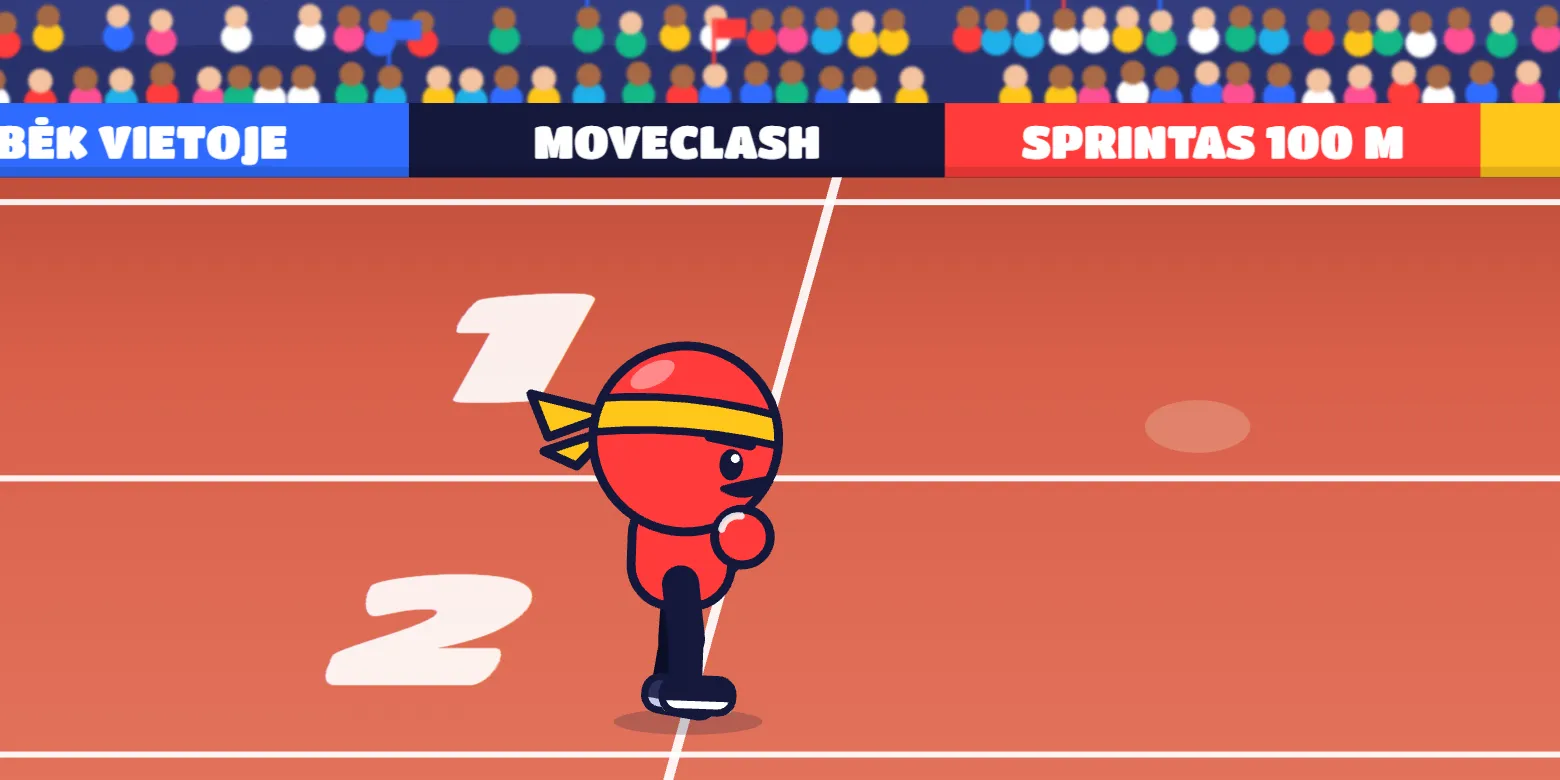
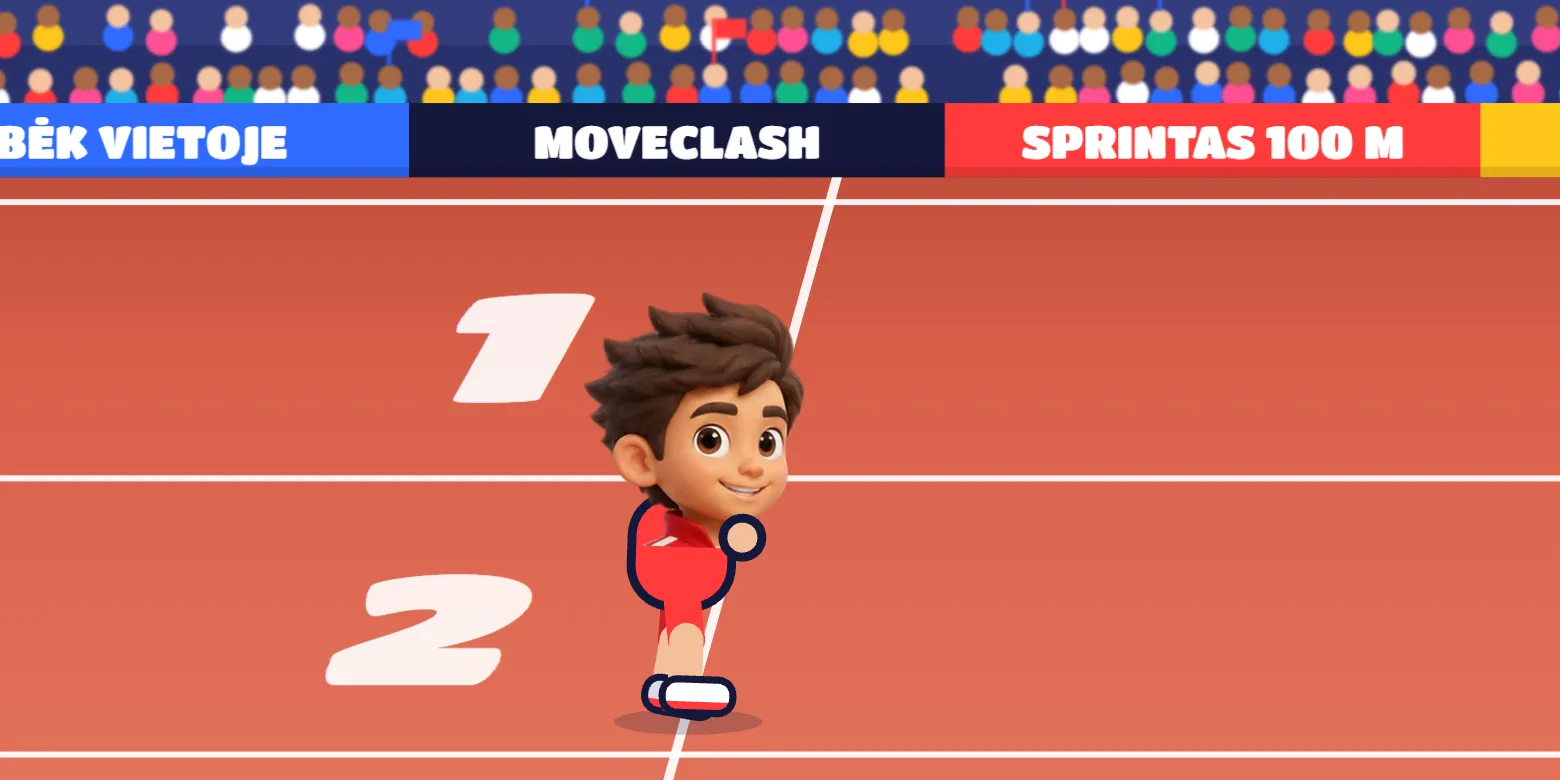
Bėgikai žaidimuose: naujų veikėjų galvos ir apranga (#56)

Changed region(s): [[0.3385, 0.3692, 0.5231, 0.9231], [0.7385, 0.4923, 0.8, 0.5846]]

diff --git a/src/sprint/runner.ts b/src/sprint/runner.ts
@@ -93,17 +93,24 @@ function footDrop(th:number,kn:number,ft:number){
 function capsule(ctx:CanvasRenderingContext2D,len:number,w:number){
   const r=w/2;ctx.beginPath();ctx.moveTo(-r,0);ctx.lineTo(-r,len);ctx.arc(0,len,r,Math.PI,0,true);ctx.lineTo(r,0);ctx.arc(0,0,r,0,Math.PI,true);ctx.closePath();
 }
-function leg(ctx:CanvasRenderingContext2D,j:number,o:Pose,far:boolean){
+// #55: the Claude Design v2 character's 3/4 head (public/chars/head-*.webp, looks +x like the runner) replaces the
+// drawn mascot head once it has loaded; until then (or offline without the asset) the old head is drawn.
+const HEADS:Record<string,HTMLImageElement>={};
+if(typeof Image!=="undefined")for(const [n,k] of [["raudonas","r"],["melynas","b"],["geltonas","y"],["zalias","g"]]){const i=new Image();i.src=`/chars/head-${k}.webp`;HEADS[n]=i}
+const SKIN:Record<string,string>={raudonas:"#F2BF9A",melynas:"#7A4A2E",geltonas:"#F4CBA8",zalias:"#F6C7A2"};
+function leg(ctx:CanvasRenderingContext2D,j:number,o:Pose,far:boolean,L?:Look){
+  const kit=L&&HEADS[L.name]?.naturalWidth?L:null; // #55: kit colour thigh (shorts) + skin shin, white sneaker
   ctx.save();
   ctx.rotate(-o.th[j]*D);
-  ctx.fillStyle=far?"#0B0E26":INK;
+  ctx.fillStyle=kit?(far?kit.dark:kit.body):(far?"#0B0E26":INK);
   capsule(ctx,THIGH,LW);ctx.fill();
   ctx.translate(0,THIGH);ctx.rotate(o.kn[j]*D);
+  ctx.fillStyle=kit?SKIN[kit.name]:ctx.fillStyle;
   capsule(ctx,SHIN,LW*.92);ctx.fill();
   // chunky sneaker, toe forward (+x): white sole + coloured upper
   ctx.translate(0,SHIN);ctx.rotate(-o.ft[j]*D);
-  ctx.beginPath();ctx.roundRect(-.06,-.035,.19,.085,.04);ctx.fillStyle=far?"#2A2F5A":INK;ctx.fill();
-  ctx.beginPath();ctx.roundRect(-.06,.025,.19,.03,.015);ctx.fillStyle=far?"#C9CCE3":"#fff";ctx.fill();
+  ctx.beginPath();ctx.roundRect(-.06,-.035,.19,.085,.04);ctx.fillStyle=kit?(far?"#D9DCE6":"#fff"):(far?"#2A2F5A":INK);ctx.fill();
+  ctx.beginPath();ctx.roundRect(-.06,.025,.19,.03,.015);ctx.fillStyle=kit?kit.body:(far?"#C9CCE3":"#fff");ctx.fill();
   ctx.lineWidth=OL*.8;ctx.strokeStyle=INK;ctx.beginPath();ctx.roundRect(-.06,-.035,.19,.09,.04);ctx.stroke();
   ctx.restore();
 }
@@ -111,12 +118,14 @@ function leg(ctx:CanvasRenderingContext2D,j:number,o:Pose,far:boolean){
 function glove(ctx:CanvasRenderingContext2D,L:Look,j:number,o:Pose,far:boolean){
   const a1=-o.sh[j]*D, a2=a1-o.el[j]*D;
   const x=Math.sin(-a1)*UARM+Math.sin(-a2)*FARM, y=Math.cos(a1)*UARM+Math.cos(a2)*FARM;
-  ctx.beginPath();ctx.arc(x,y,GLOVE,0,Math.PI*2);
-  ctx.fillStyle=far?L.dark:L.body;ctx.fill();ctx.lineWidth=OL;ctx.strokeStyle=INK;ctx.stroke();
-  if(!far){ctx.beginPath();ctx.arc(x-.012,y-.012,GLOVE*.6,Math.PI*1.05,Math.PI*1.55);ctx.lineWidth=OL*.8;ctx.strokeStyle="rgba(255,255,255,.85)";ctx.lineCap="round";ctx.stroke()}
+  const hand=HEADS[L.name]?.naturalWidth?SKIN[L.name]:null; // with the new heads: bare hands, not boxing gloves
+  ctx.beginPath();ctx.arc(x,y,hand?GLOVE*.7:GLOVE,0,Math.PI*2);
+  ctx.fillStyle=hand??(far?L.dark:L.body);ctx.fill();ctx.lineWidth=OL;ctx.strokeStyle=INK;ctx.stroke();
+  if(!far&&!hand){ctx.beginPath();ctx.arc(x-.012,y-.012,GLOVE*.6,Math.PI*1.05,Math.PI*1.55);ctx.lineWidth=OL*.8;ctx.strokeStyle="rgba(255,255,255,.85)";ctx.lineCap="round";ctx.stroke()}
 }
 function head(ctx:CanvasRenderingContext2D,L:Look,o:Pose,t:number){
-  const r=HEAD_R, cy=HEAD_Y;
+  const r=HEAD_R, cy=HEAD_Y, img=HEADS[L.name];
+  if(img?.complete&&img.naturalWidth){const s=r*2.75;ctx.drawImage(img,-s*.48,cy-s*.58,s,s);return}
   // knot tails fly behind (-x), flapping with the stride
   const fl=Math.sin(t*2)*.025;
   ctx.lineJoin="round";ctx.lineWidth=OL;ctx.strokeStyle=INK;ctx.fillStyle=L.band;
@@ -151,12 +160,12 @@ export function drawRunner(ctx:CanvasRenderingContext2D,L:Look,o:Pose,x:number,g
   ctx.lineJoin="round";ctx.lineCap="round";
   // far side first (j=1)
   ctx.save();ctx.rotate(o.lean*D);ctx.translate(-.02,SHOULDER_Y);glove(ctx,L,1,o,true);ctx.restore();
-  leg(ctx,1,o,true);
+  leg(ctx,1,o,true,L);
   ctx.save();ctx.rotate(o.lean*D);
   ctx.beginPath();ctx.roundRect(-BODY_W/2,-BODY_H,BODY_W,BODY_H+.06,.11);ctx.fillStyle=L.body;ctx.fill();ctx.lineWidth=OL;ctx.strokeStyle=INK;ctx.stroke();
   head(ctx,L,o,o.p*6.3);
   ctx.restore();
-  leg(ctx,0,o,false);
+  leg(ctx,0,o,false,L);
   ctx.save();ctx.rotate(o.lean*D);ctx.translate(.02,SHOULDER_Y);glove(ctx,L,0,o,false);ctx.restore();
   ctx.restore();
 }

diff --git a/CHANGELOG.md b/CHANGELOG.md
@@ -1,5 +1,10 @@
 # Pakeitimų žurnalas
 
+## 2026-10-29 — Bėgikai žaidimuose: naujų veikėjų galvos ir apranga (#56, šaka `claude/56-runner-heads`)
+
+- `src/sprint/runner.ts` (sprintas, barjerai, šuolis į tolį, ietis): vietoj nupiešto maskoto galvos – Claude Design v2 veikėjo 3/4 galva (`public/chars/head-{r,b,y,g}.webp`, žiūri bėgimo kryptimi), rankos – plaštakos odos spalva vietoj bokso pirštinių, šlaunys – aprangos spalva, blauzdos – odos, batai balti. Pozų sistema (bėgimo ciklas pagal kadenciją) nepakeista; kol paveikslėlis neįkeltas – piešiama sena galva.
+- `public/scenes/sp.webp`, `hd.webp` perfotografuoti su naujais bėgikais.
+
 ## 2026-10-29 — Žaidėjų galvutės: nauji veikėjai visur (#55, šaka `claude/55-avatar-heads`)
 
 - `avatar()` (`src/ui/mascots.ts`) dabar grąžina Claude Design v2 veikėjo galvutę (`public/chars/sheet*.webp` iškarpa) vietoj seno SVG – viena vieta, todėl pasikeitė visų žaidimų vardų laukai, HUD kortelės ir rezultatų eilutės. `crown` paliktas (mažas SVG virš galvutės).
